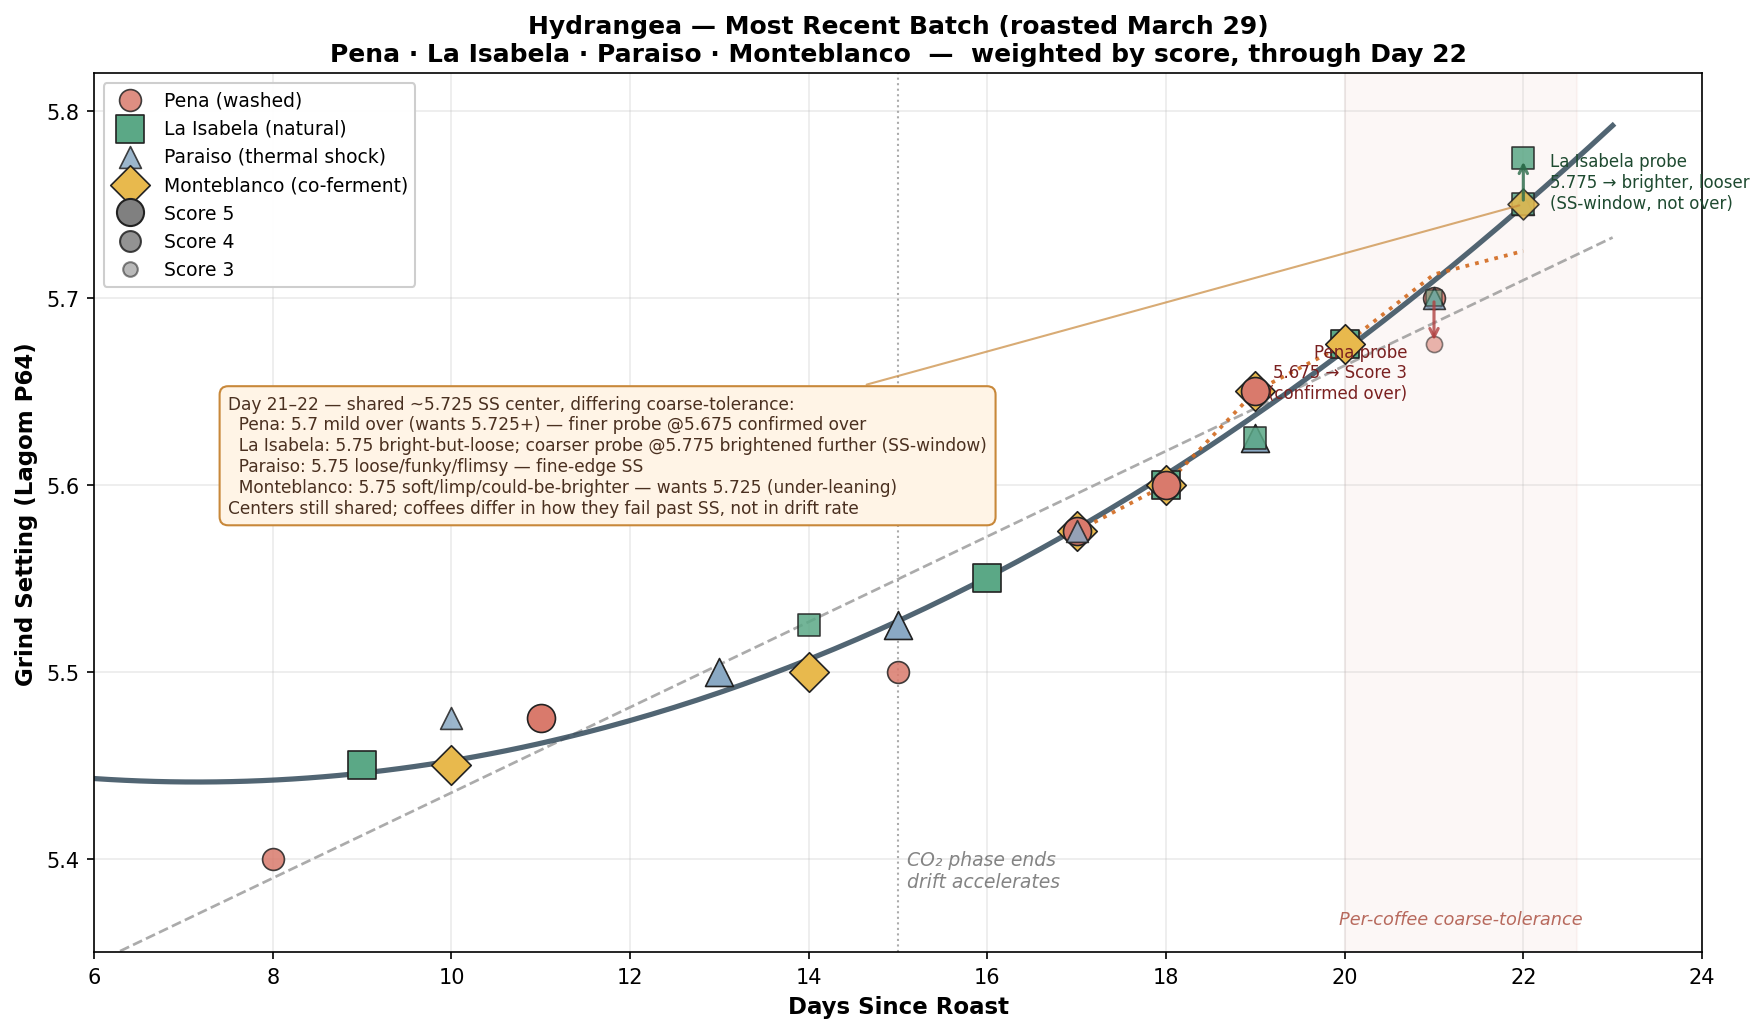
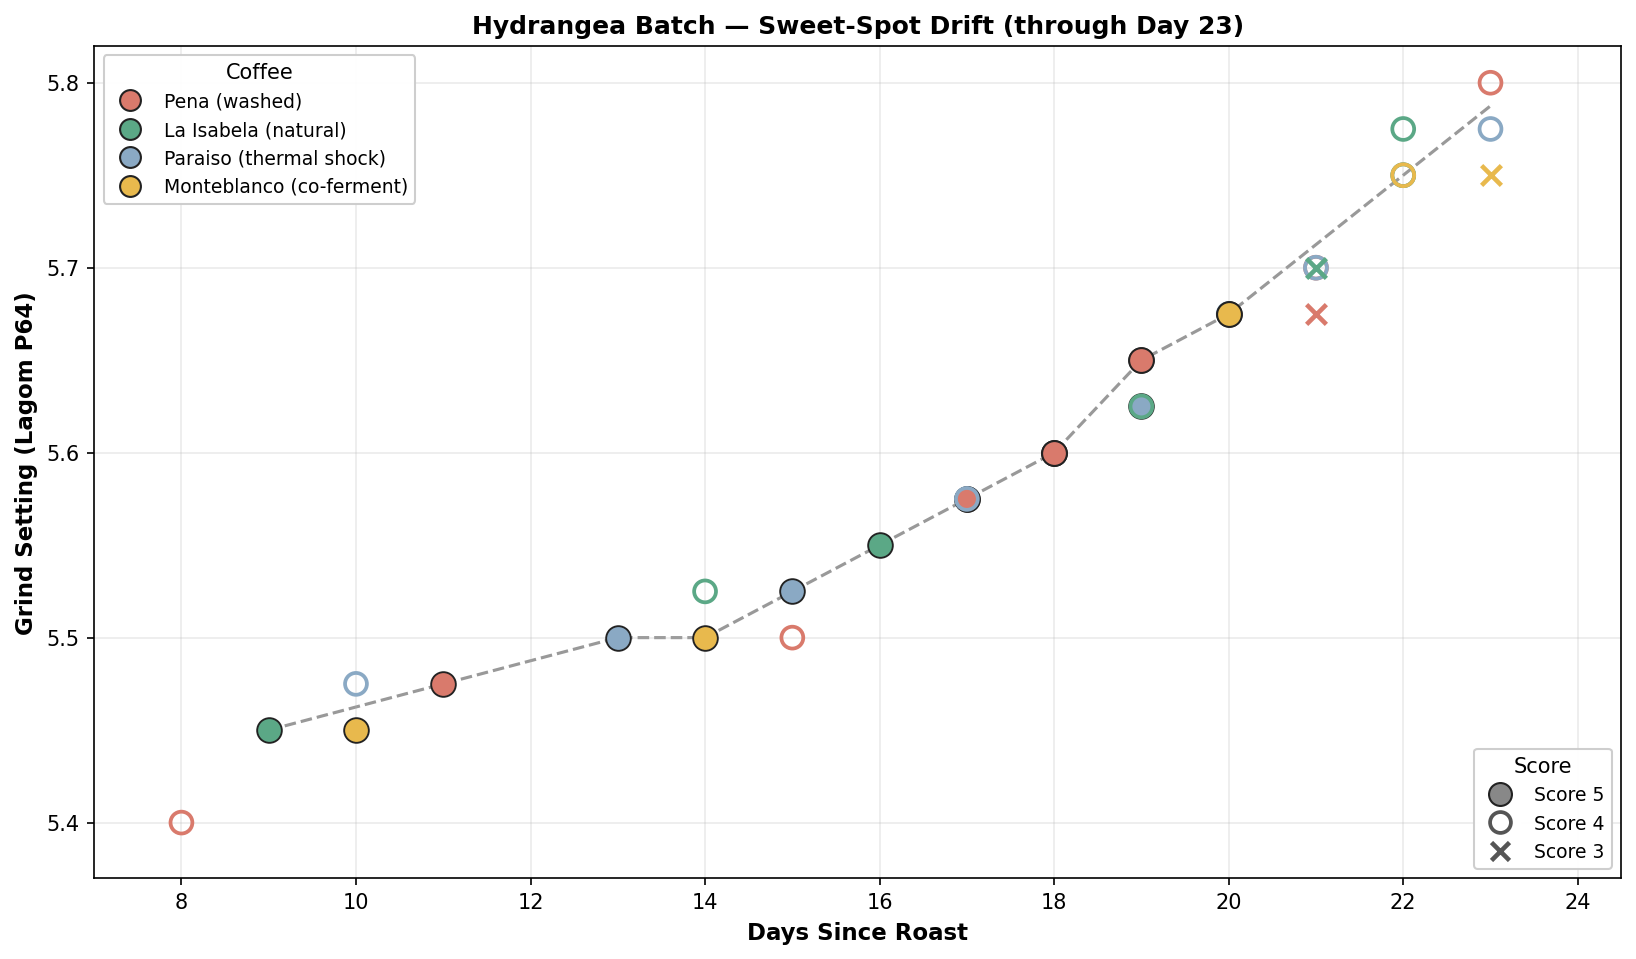
Entries

diff --git a/joshua-martin/Coffee Journal.md b/joshua-martin/Coffee Journal.md
@@ -3903,3 +3903,15 @@ Even more brilliant sweet-tart-like brilliant grape candy. Even looser, but coul
 ## Monteblanco, Z, 5.75 @ 211ºF, 12.5g/250g Day 22, Score: 4
 
 Soft first sip. Small flavor volume, limp. Fantastic clarity, but could be brighter and more structured overall. Very juicy and loose in cooldown. Fantastic flavors, but I think we can push this a bit further. **5.725**
+
+## Monteblanco, Z, 5.75 @ 211ºF, 12.5g/250g Day 23, Score: 3
+
+Not bad, but missing more bright and refreshing characteristics. Flavors are still here, just less complex. **5.775 or higher?**
+
+## Paraiso, Z, 5.775 @ 211ºF, 12.5g/250g Day 23, Score: 4
+
+Barely finer side of sweet spot. Good structure, funky peach gummy quality, solid cooldown, could benefit from just a touch more brightness. **Keep or 5.8?**
+
+## Pena, Z, 5.8 @ 211ºF, 12.5g/250g Day 23, Score: 4
+
+Sharper, more citrus-y profile in first sip. Mouthfilling volume. Moderate sweetness. Dark but gentle finish. Lacks focus. Big volume as cools, slightly skewed towards citric side, needs more sweetness to add definition. Still, good flavors — citrus and sugary quality are here. **5.775?**
